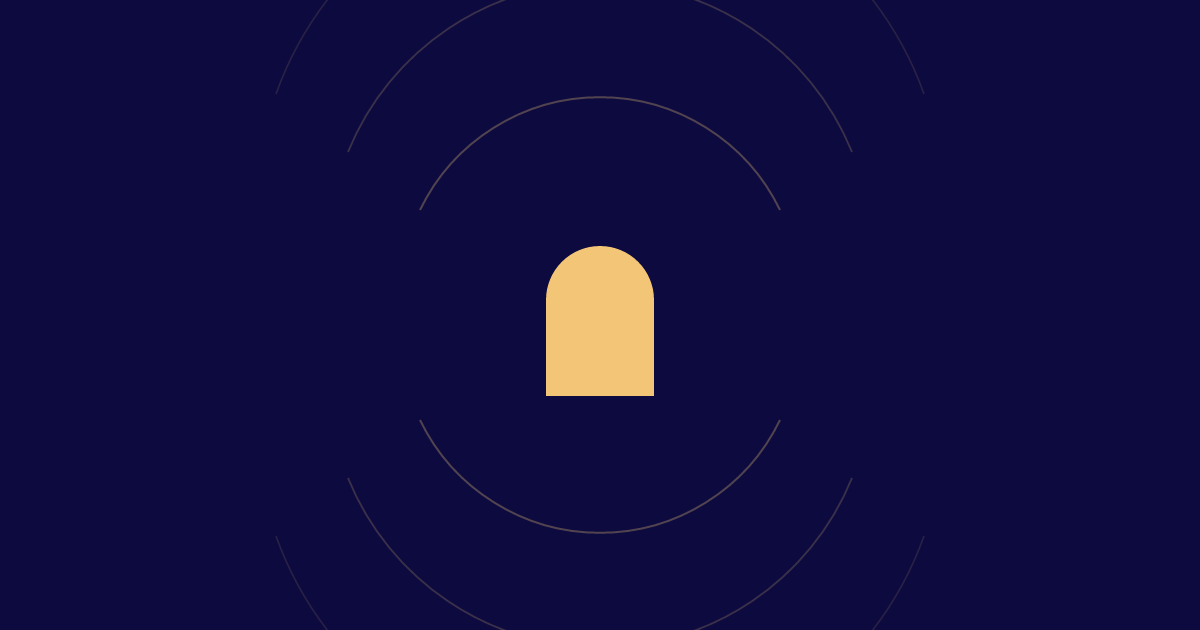
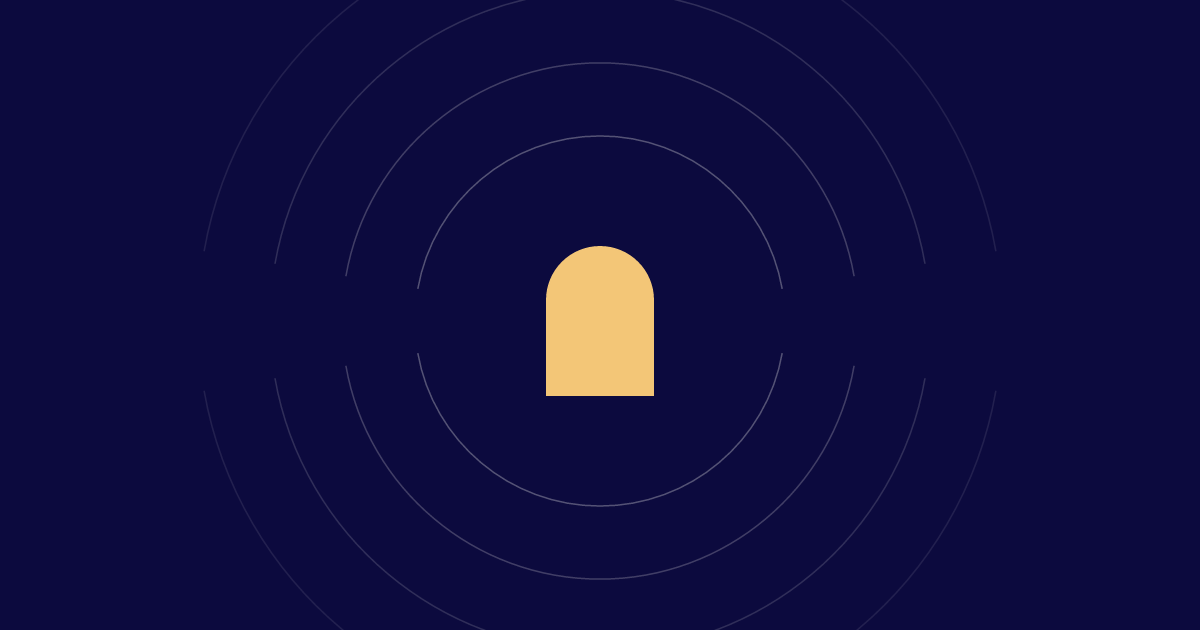
Redraw the artwork for the content post
Replaces the stand-in with the supplied composition: the gold arch on ink
with four pairs of faint waves radiating out from the arch's own centre,
gaps left at the sides. Drawn as SVG rather than traced from a screenshot,
so it stays crisp at any size and goes through the same rasteriser as the
other card.

Post only — /method keeps the default social card. Alt text now describes
what the art actually shows.

diff --git a/src/content/blog/why-content-isnt-generating-leads.md b/src/content/blog/why-content-isnt-generating-leads.md
@@ -4,7 +4,7 @@ description: "Most content programs fail at one of four points: the wrong querie
 date: 2026-08-24
 author: "Taylor Corbett"
 image: "/images/blog/why-content-isnt-generating-leads.png"
-imageAlt: "Sonora arch mark on a deep navy field"
+imageAlt: "The Sonora arch mark in gold on a deep navy field, with faint waves radiating outward"
 topic: "Search"
 pullQuote: "Publishing more rarely helps. If you rank for questions nobody buys from, doubling output doubles the wrong thing."
 draft: false
